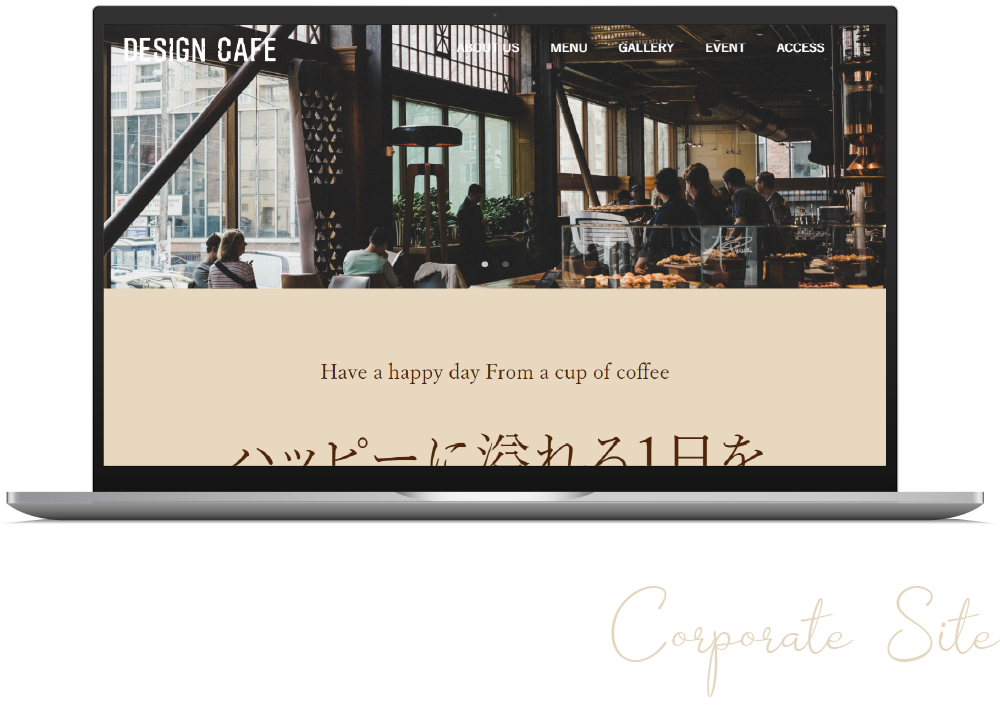
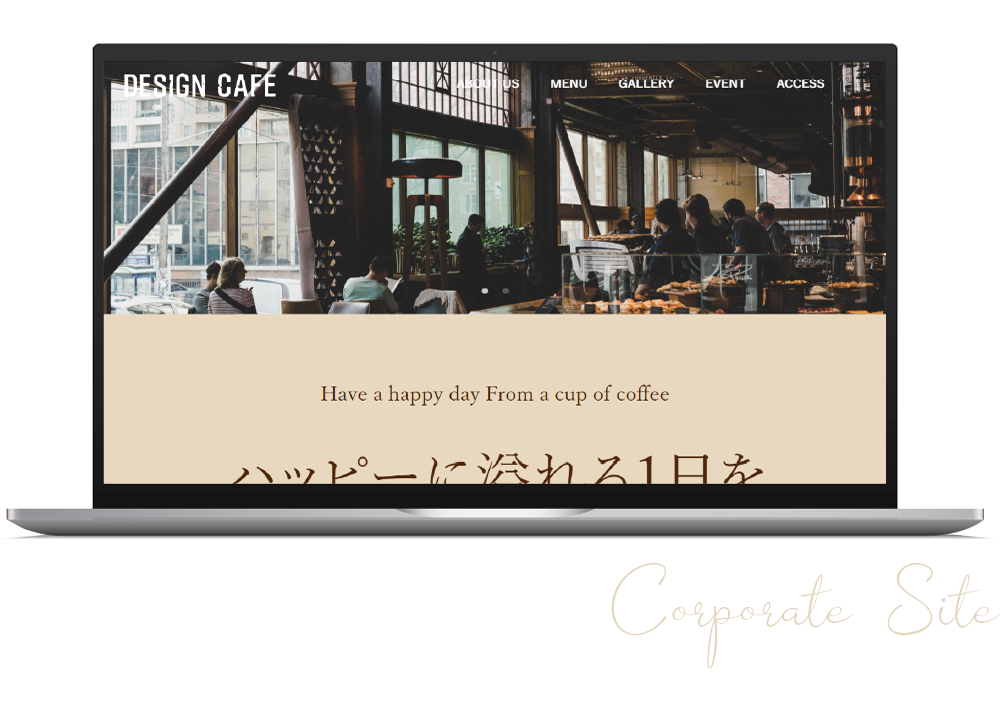
0924

diff --git a/css/work.css b/css/work.css
@@ -368,7 +368,7 @@ img {
     }
 }
 .work_pic {
-    max-width: 65.5%;
+    max-width: 90%;
 }
 /* work detail */
 h2 {
@@ -552,6 +552,10 @@ h3 {
         max-width: 700px;
         padding: 90px 0 5px 20px;
     }
+    .capture_outline {
+        margin-bottom: 35px;
+        padding: 25px 0 5px 20px;
+    }
     .overview_wrap dl {
         max-width: 650px;
         font-size: 15px;
@@ -593,7 +597,7 @@ h3 {
     .work_pic {
         position: relative;
         z-index: 3;
-        margin-left: 30px;
+        margin: 10px 0 20px;
     }
     /* work detail */
     .capture_bottom ul {

diff --git a/work_salon.html b/work_salon.html
@@ -46,7 +46,7 @@
         <div class="work_line_salon"></div>
         <div class="work_visual">
             <h1 class="logo_img"><a href="index.html#top"><img src="image/logo.svg" alt="logo"></a></h1>
-            <div class="work_detail"><img src="image/sitesalon.jpg" alt="" class="work_pic"></div>
+            <div class="work_detail"><img src="image/sitesalon.png" alt="" class="work_pic"></div>
         </div>
 
         <!-- text -->
